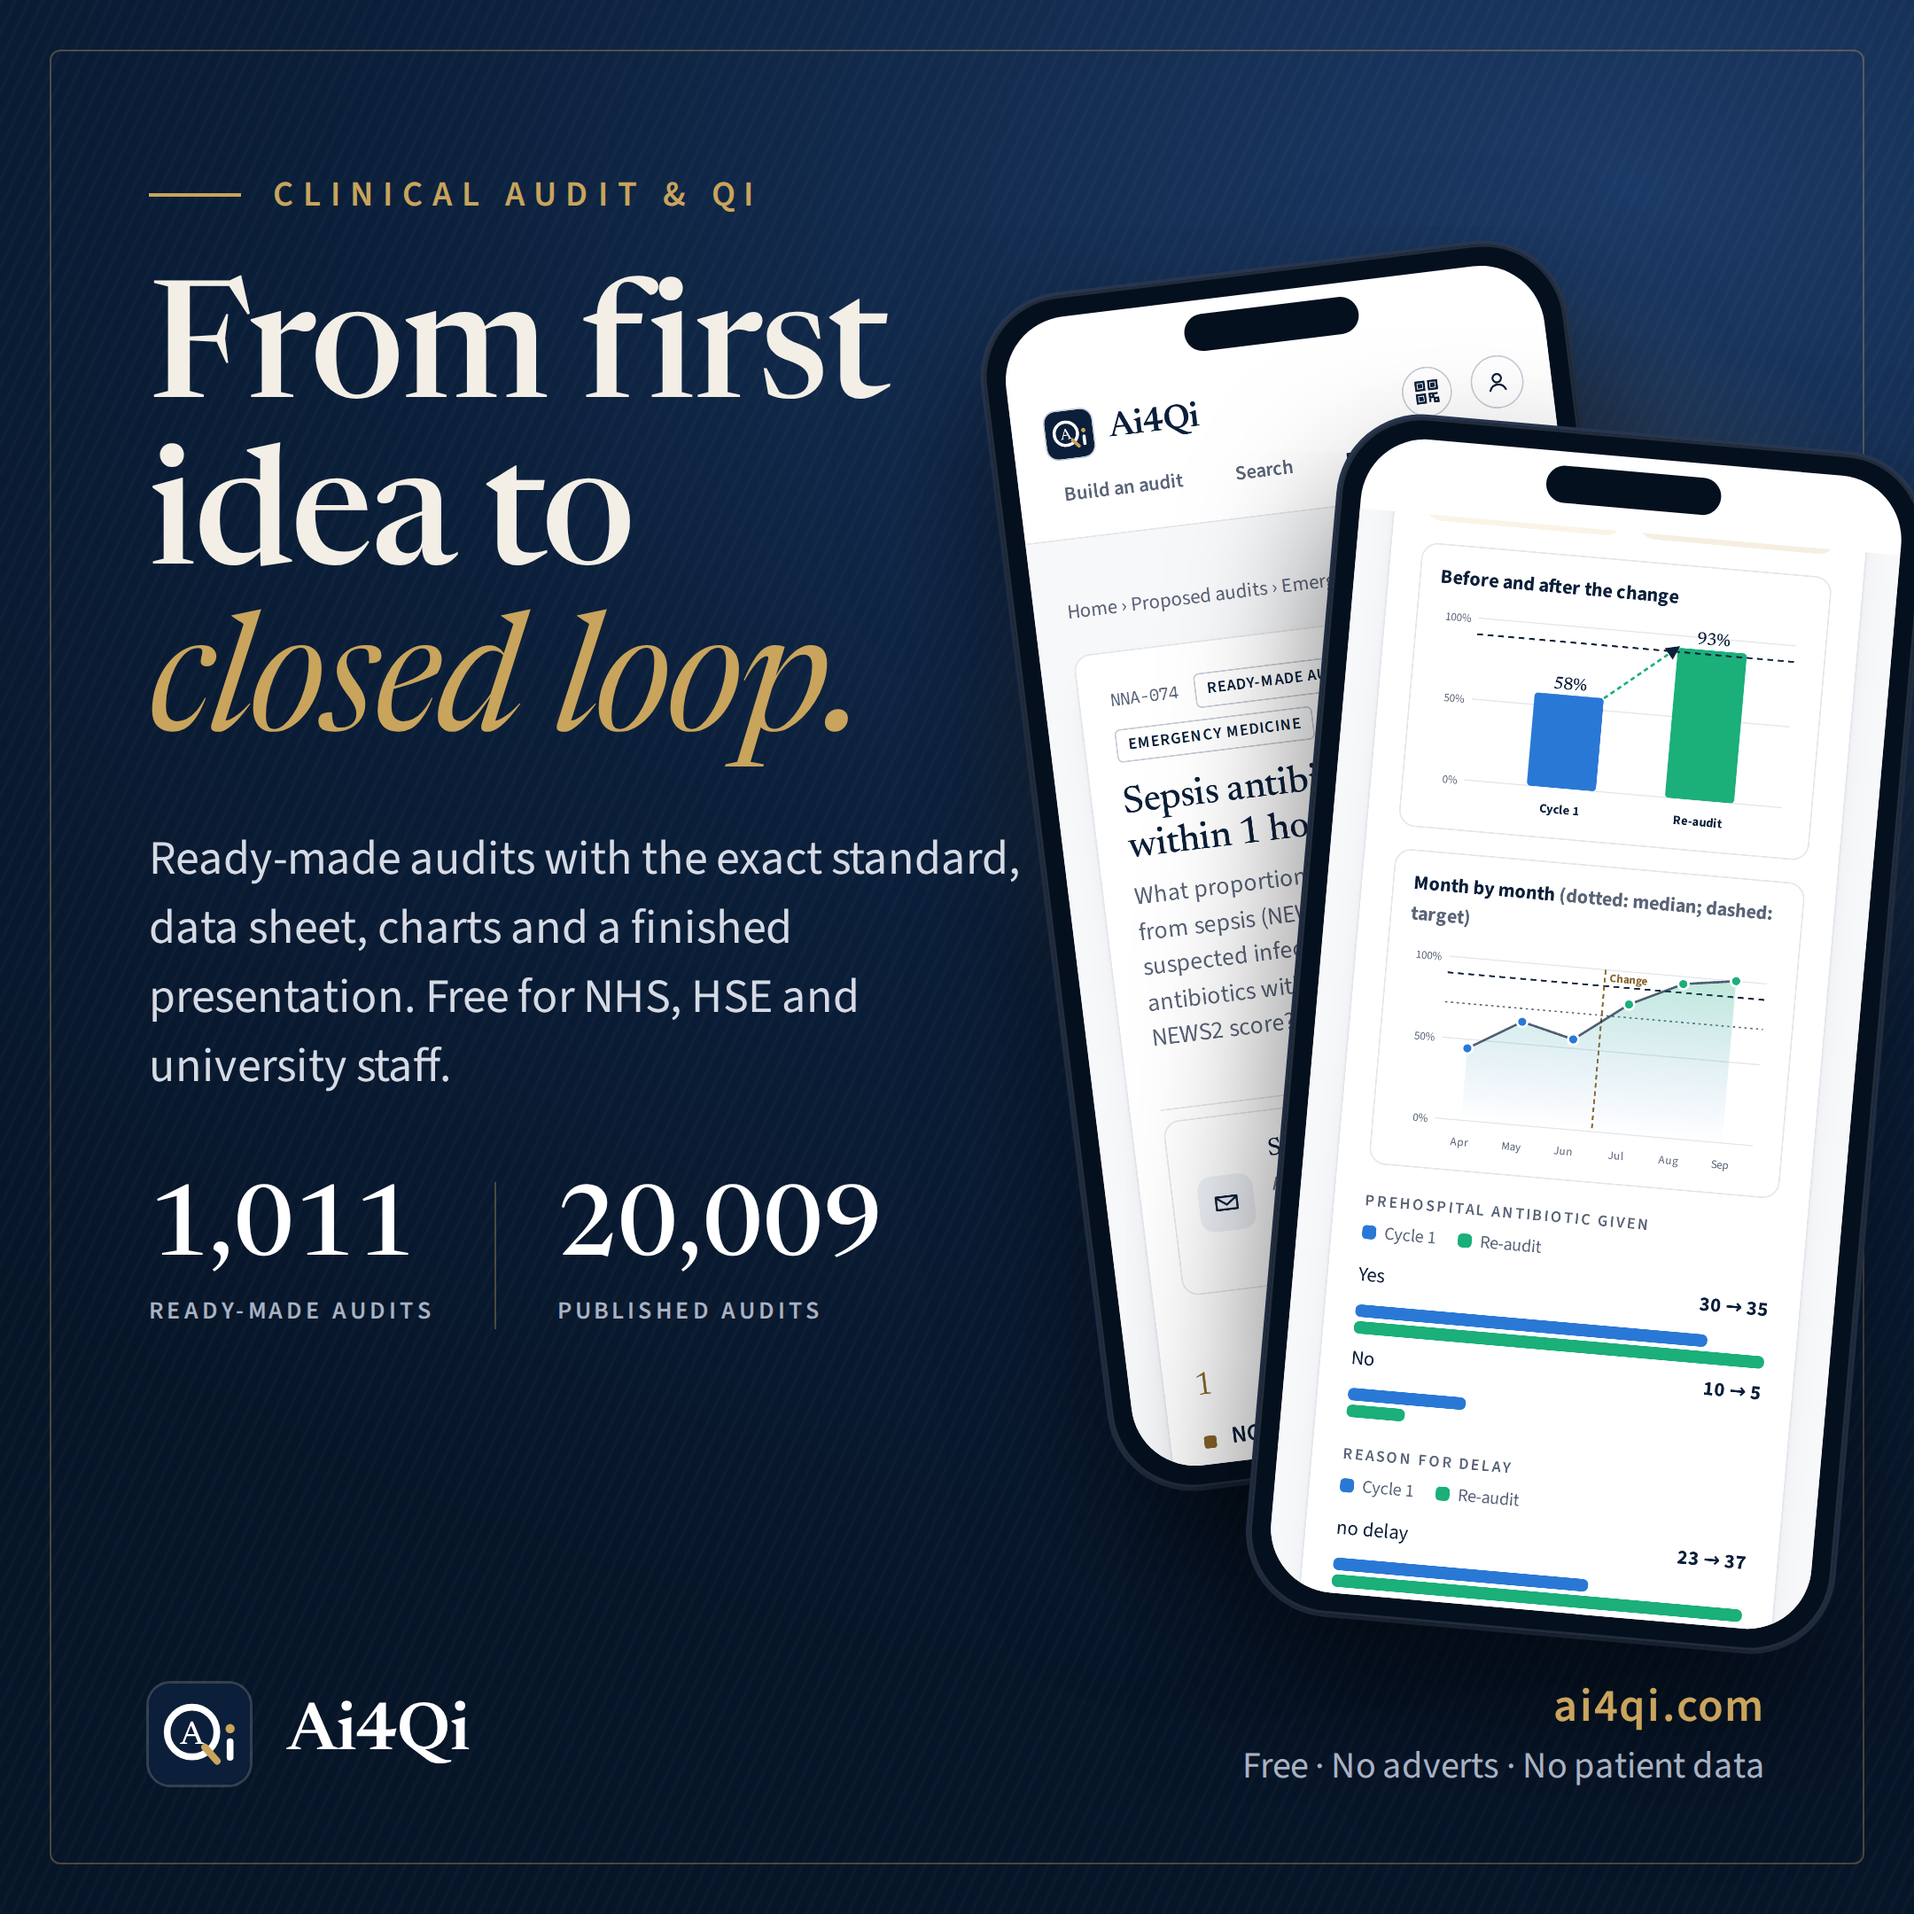
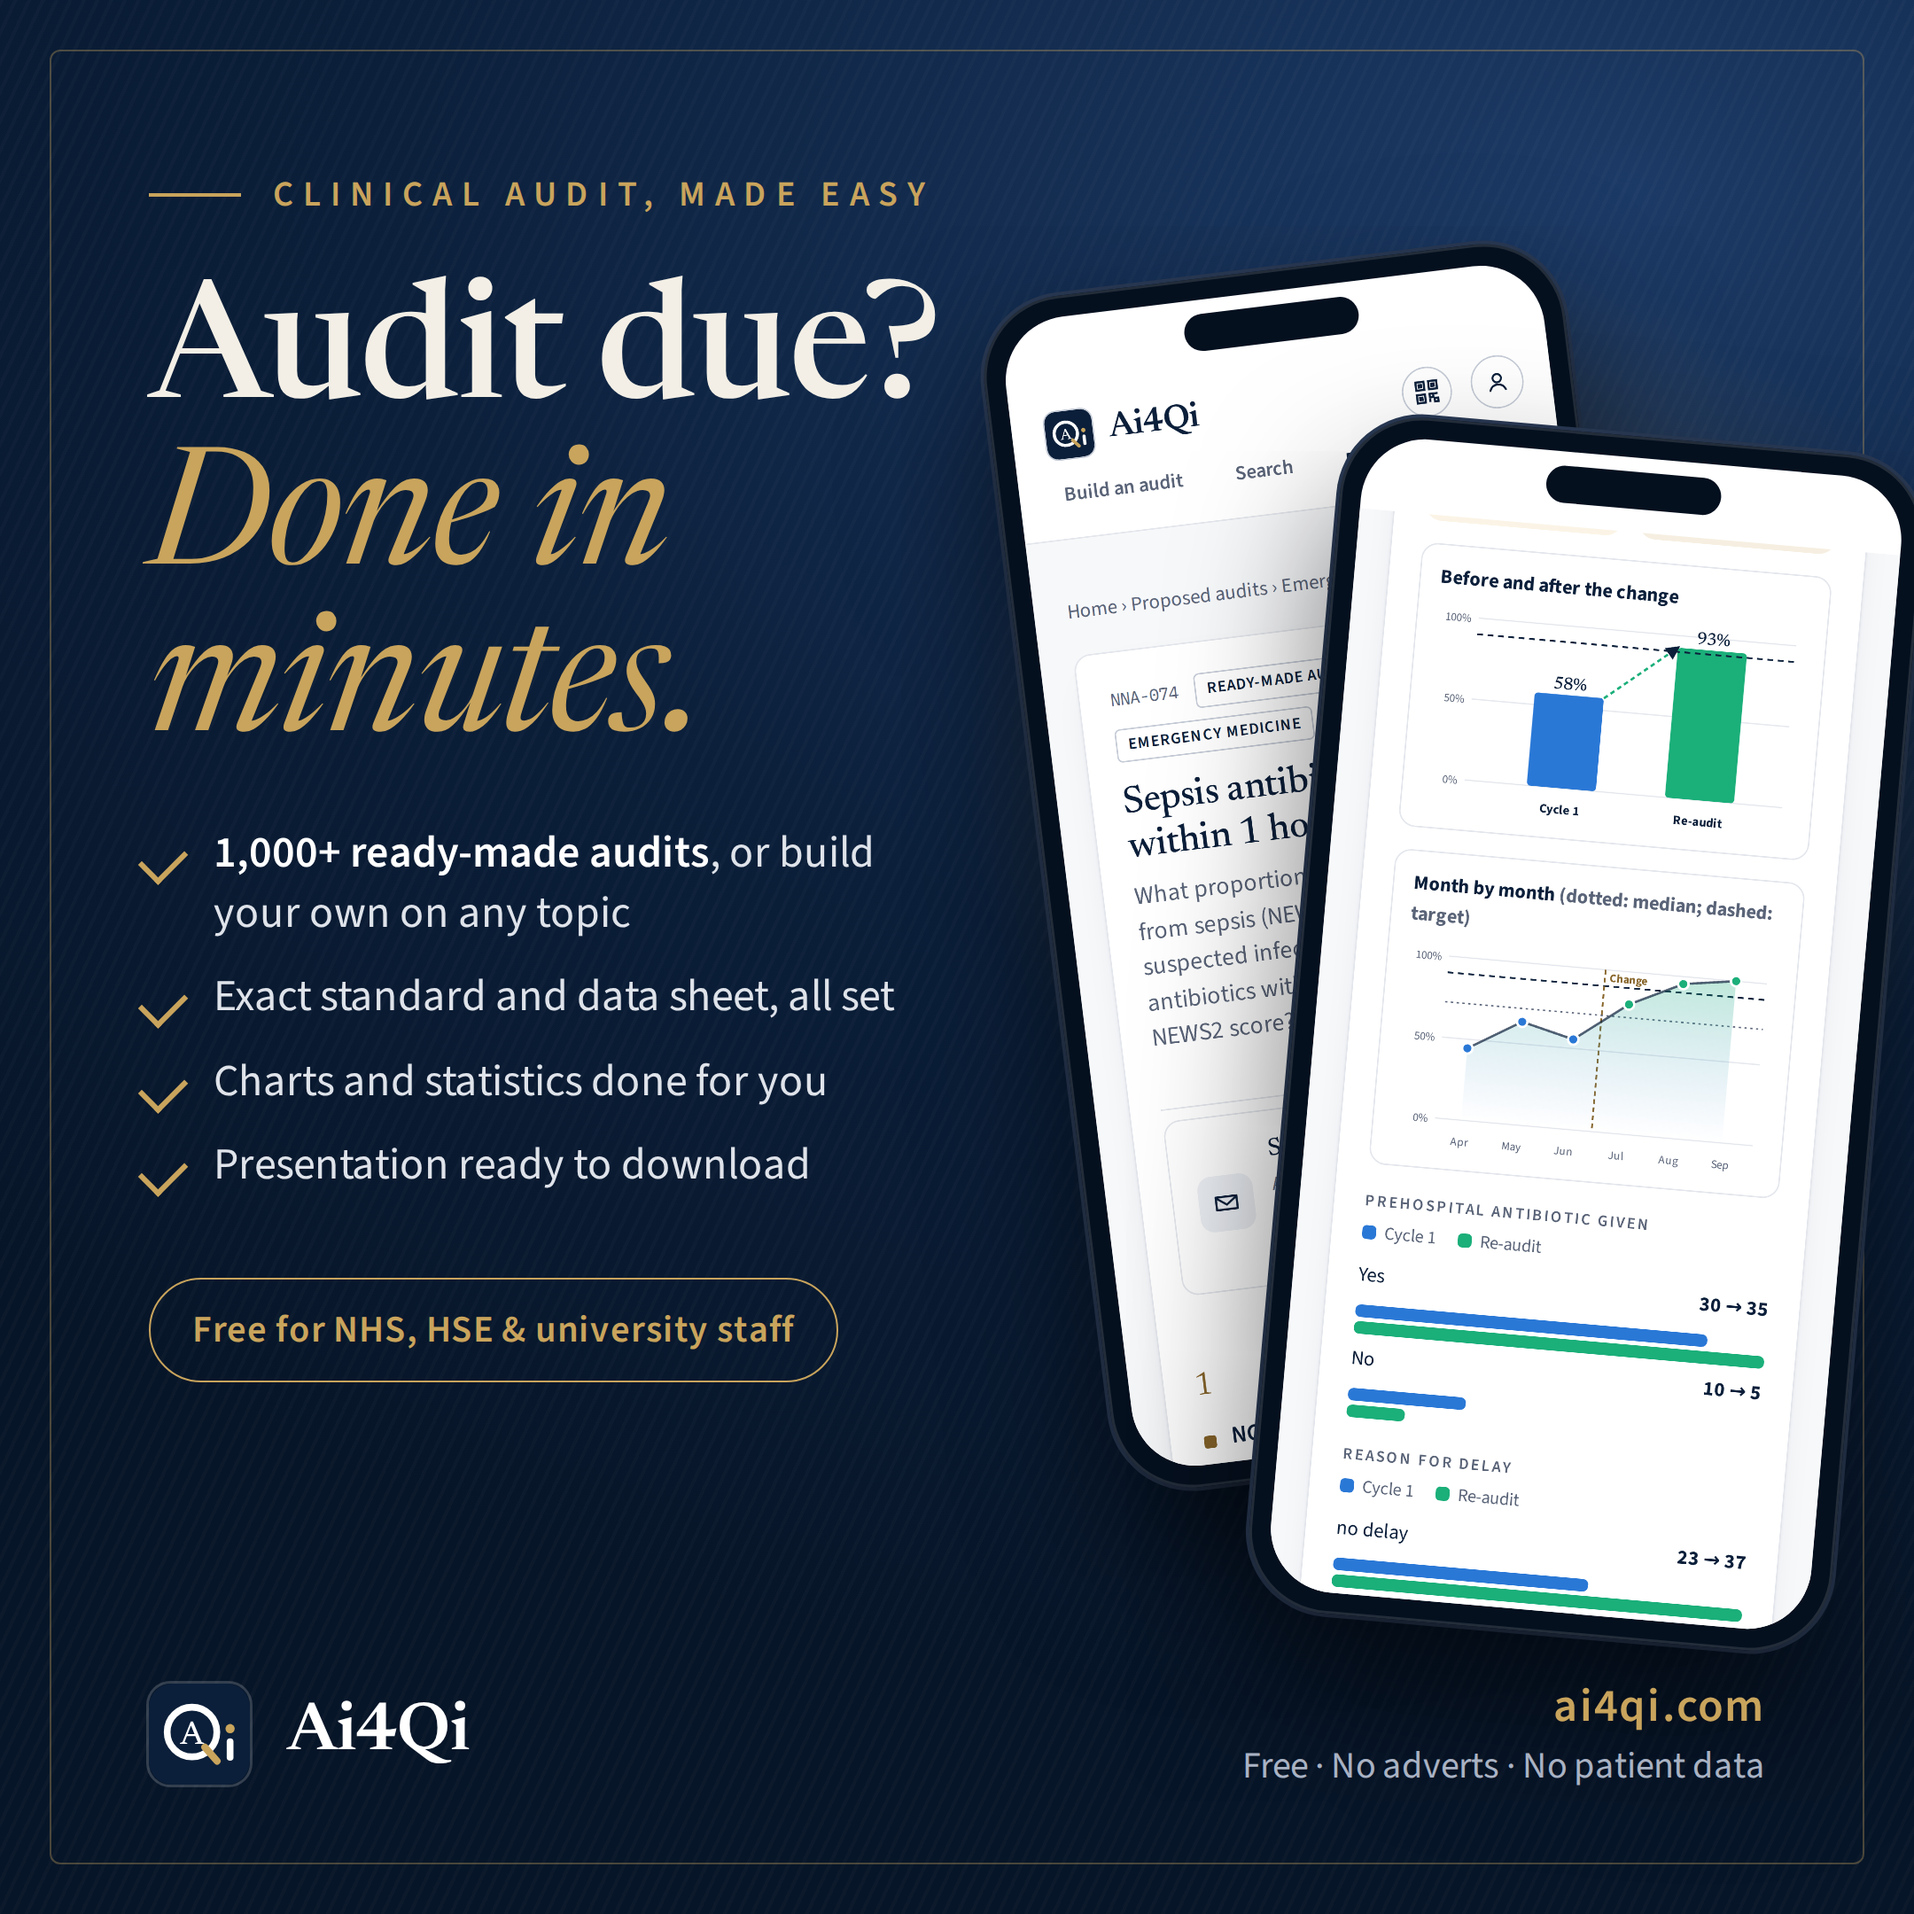
Promo images: clearer 'Audit due? Done in minutes.' headline with tick list
Claude-Session: https://claude.ai/code/session_01SHDqfgFcGDQJHU7goabWW4

Changed region(s): [[0.062, 0.4343, 0.5273, 0.7134], [0.062, 0.1241, 0.4963, 0.4032], [0.3412, 0.0931, 0.4653, 0.1241]]

diff --git a/ai4qi/promo/poster.html b/ai4qi/promo/poster.html
@@ -15,6 +15,11 @@ body { font-family:"Source Sans 3",system-ui,sans-serif; color:var(--ivory);
 h1 { font-family:"Newsreader",Georgia,serif; font-weight:500; line-height:1.02; letter-spacing:-.015em; font-size:var(--h1); margin-top:.35em; }
 h1 em { font-style:italic; color:var(--gold); font-weight:400; }
 .sub { font-size:var(--sub); line-height:1.45; color:#d5dae4; margin-top:1em; max-width:var(--subw); }
+.ticks { list-style:none; margin-top:1.1em; font-size:var(--sub); line-height:1.35; color:#dfe3ea; max-width:var(--subw); display:grid; gap:.55em; }
+.ticks li { position:relative; padding-left:1.45em; }
+.ticks li::before { content:""; position:absolute; left:0; top:.32em; width:.5em; height:.85em; border:solid var(--gold); border-width:0 .14em .14em 0; transform:rotate(45deg); }
+.ticks b { color:#fff; font-weight:600; }
+.free { display:inline-block; margin-top:var(--smt); padding:.6em 1.1em; border:1.5px solid var(--gold); border-radius:999px; color:var(--gold); font-weight:600; font-size:calc(var(--sub)*.85); letter-spacing:.02em; }
 .stats { display:flex; gap:var(--sg); margin-top:var(--smt); }
 .stat b { display:block; font-family:"Newsreader",serif; font-weight:500; font-size:var(--sn); line-height:1; color:#fff; font-variant-numeric:lining-nums; }
 .stat span { display:block; margin-top:.5em; font-size:var(--sl); letter-spacing:.14em; text-transform:uppercase; color:var(--mist); font-weight:600; }
@@ -36,13 +41,10 @@ h1 em { font-style:italic; color:var(--gold); font-weight:400; }
 <div class="grain"></div><div class="frame"></div>
 <div class="glow" id="glow"></div>
 <div class="copy" id="copy">
-  <div class="kicker">Clinical audit &amp; QI</div>
-  <h1 id="h1">From first idea<br>to <em>closed loop.</em></h1>
-  <p class="sub" id="sub">Ready-made audits with the exact standard, data sheet, charts and a finished presentation. Free for NHS, HSE and university staff.</p>
-  <div class="stats" id="stats">
-    <div class="stat"><b>1,011</b><span>Ready-made audits</span></div>
-    <div class="stat"><b>20,009</b><span>Published audits</span></div>
-  </div>
+  <div class="kicker">Clinical audit, made easy</div>
+  <h1 id="h1">Audit due?<br><em>Done in minutes.</em></h1>
+  <ul class="ticks" id="sub"><li><b>1,000+ ready-made audits</b>, or build your own on any topic</li><li>Exact standard and data sheet, all set</li><li>Charts and statistics done for you</li><li>Presentation ready to download</li></ul>
+  <div class="free" id="stats">Free for NHS, HSE &amp; university staff</div>
 </div>
 <div class="phone" id="p1"><div class="notch"></div><div class="scr"><img src="src/audit.png"></div></div>
 <div class="phone" id="p2"><div class="notch"></div><div class="scr"><img src="src/results.png"></div></div>
@@ -53,13 +55,13 @@ h1 em { font-style:italic; color:var(--gold); font-weight:400; }
 </div>
 <script>
 const L = {
-  square:   { w:1080,h:1080, inset:28, pad:84, k:20, h1:92, sub:27, subw:500, sn:56, sl:14, sg:34, smt:46, brand:38, url:21, fb:70,
+  square:   { w:1080,h:1080, inset:28, pad:84, k:20, h1:92, sub:25, subw:460, sn:56, sl:14, sg:34, smt:46, brand:38, url:21, fb:70,
               copy:{left:84, top:96}, pw:330, p1:{left:590,top:150,rot:-7}, p2:{left:730,top:245,rot:5}, glow:{left:520,top:120,s:620} },
-  portrait: { w:1080,h:1350, inset:28, pad:84, k:21, h1:104, sub:29, subw:900, sn:62, sl:15, sg:40, smt:40, brand:40, url:22, fb:72,
-              copy:{left:84, top:104}, pw:350, p1:{left:170,top:700,rot:-6}, p2:{left:560,top:660,rot:5}, glow:{left:160,top:600,s:800}, fade:330 },
+  portrait: { w:1080,h:1350, inset:28, pad:84, k:21, h1:104, sub:29, subw:900, sn:62, sl:15, sg:40, smt:34, brand:40, url:22, fb:72,
+              copy:{left:84, top:104}, pw:330, p1:{left:190,top:800,rot:-6}, p2:{left:570,top:760,rot:5}, glow:{left:160,top:600,s:800}, fade:330 },
   story:    { w:1080,h:1920, inset:32, pad:90, k:24, h1:124, sub:34, subw:880, sn:72, sl:17, sg:48, smt:54, brand:46, url:25, fb:120,
-              copy:{left:90, top:250}, pw:430, p1:{left:110,top:1020,rot:-6}, p2:{left:540,top:950,rot:5}, glow:{left:120,top:900,s:900}, fade:480 },
-  landscape:{ w:1200,h:627, inset:20, pad:64, k:15, h1:66, sub:21, subw:520, sn:42, sl:11, sg:26, smt:28, brand:30, url:16, fb:42,
+              copy:{left:90, top:250}, pw:410, p1:{left:120,top:1110,rot:-6}, p2:{left:550,top:1050,rot:5}, glow:{left:120,top:900,s:900}, fade:480 },
+  landscape:{ w:1200,h:627, inset:20, pad:64, k:15, h1:64, sub:20, subw:620, sn:42, sl:11, sg:26, smt:28, brand:30, url:16, fb:42,
               copy:{left:64, top:62}, pw:250, p1:{left:700,top:70,rot:-6}, p2:{left:910,top:110,rot:5}, glow:{left:640,top:20,s:560} },
 };
 const v = L[(location.hash||'#square').slice(1)];
@@ -71,6 +73,7 @@ if (v === L.square || v === L.landscape) c.style.right = 'auto';
 for (const id of ['p1','p2']) { const e = document.getElementById(id), p = v[id]; e.style.left=p.left+'px'; e.style.top=p.top+'px'; e.style.transform=`rotate(${p.rot}deg)`; }
 const g = document.getElementById('glow'); g.style.left=v.glow.left+'px'; g.style.top=v.glow.top+'px'; g.style.width=g.style.height=v.glow.s+'px';
 if (v === L.landscape) { const f=document.querySelector('.foot'); f.style.right='auto'; f.style.gap='56px'; f.style.justifyContent='flex-start'; const u=document.querySelector('.url'); u.style.textAlign='left'; u.style.paddingLeft='40px'; u.style.borderLeft='1px solid rgba(201,164,92,.35)'; }
-if (v === L.square || v === L.landscape) document.getElementById('h1').innerHTML = 'From first<br>idea to<br><em>closed loop.</em>';
+if (v === L.square) document.getElementById('h1').innerHTML = 'Audit due?<br><em>Done in<br>minutes.</em>';
+if (v === L.landscape) document.getElementById('stats').style.display='none';
 </script>
 </body></html>
